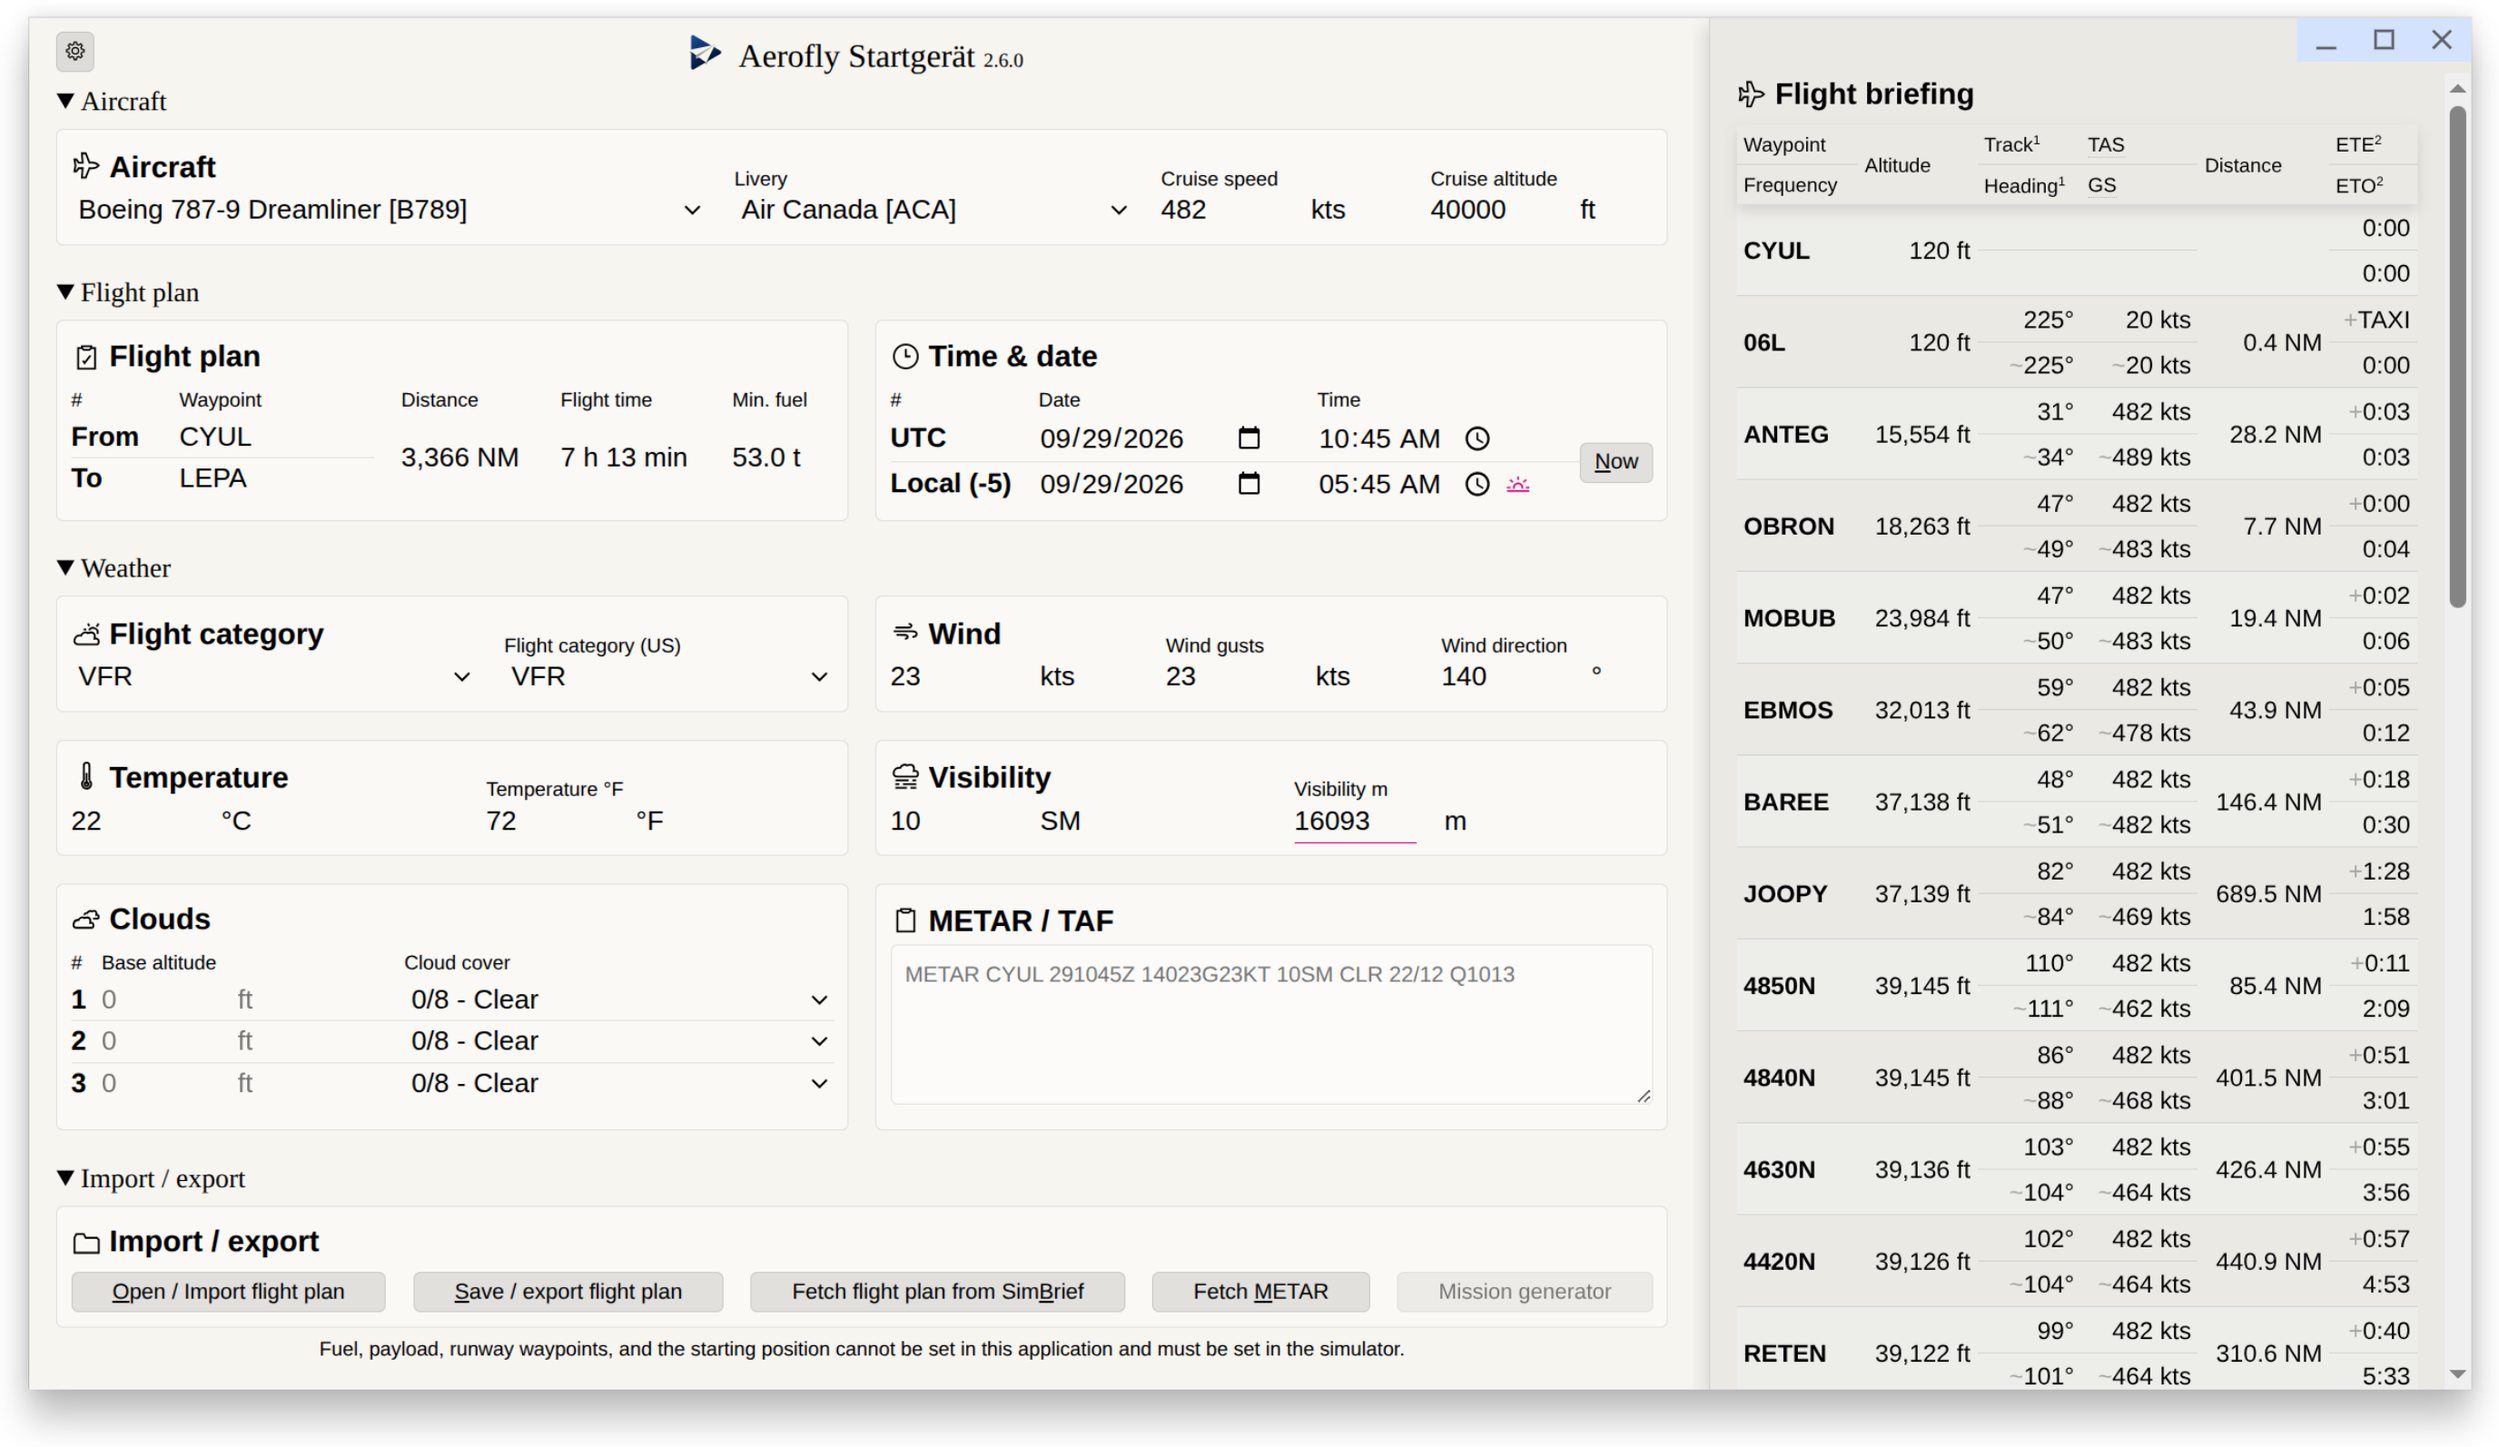
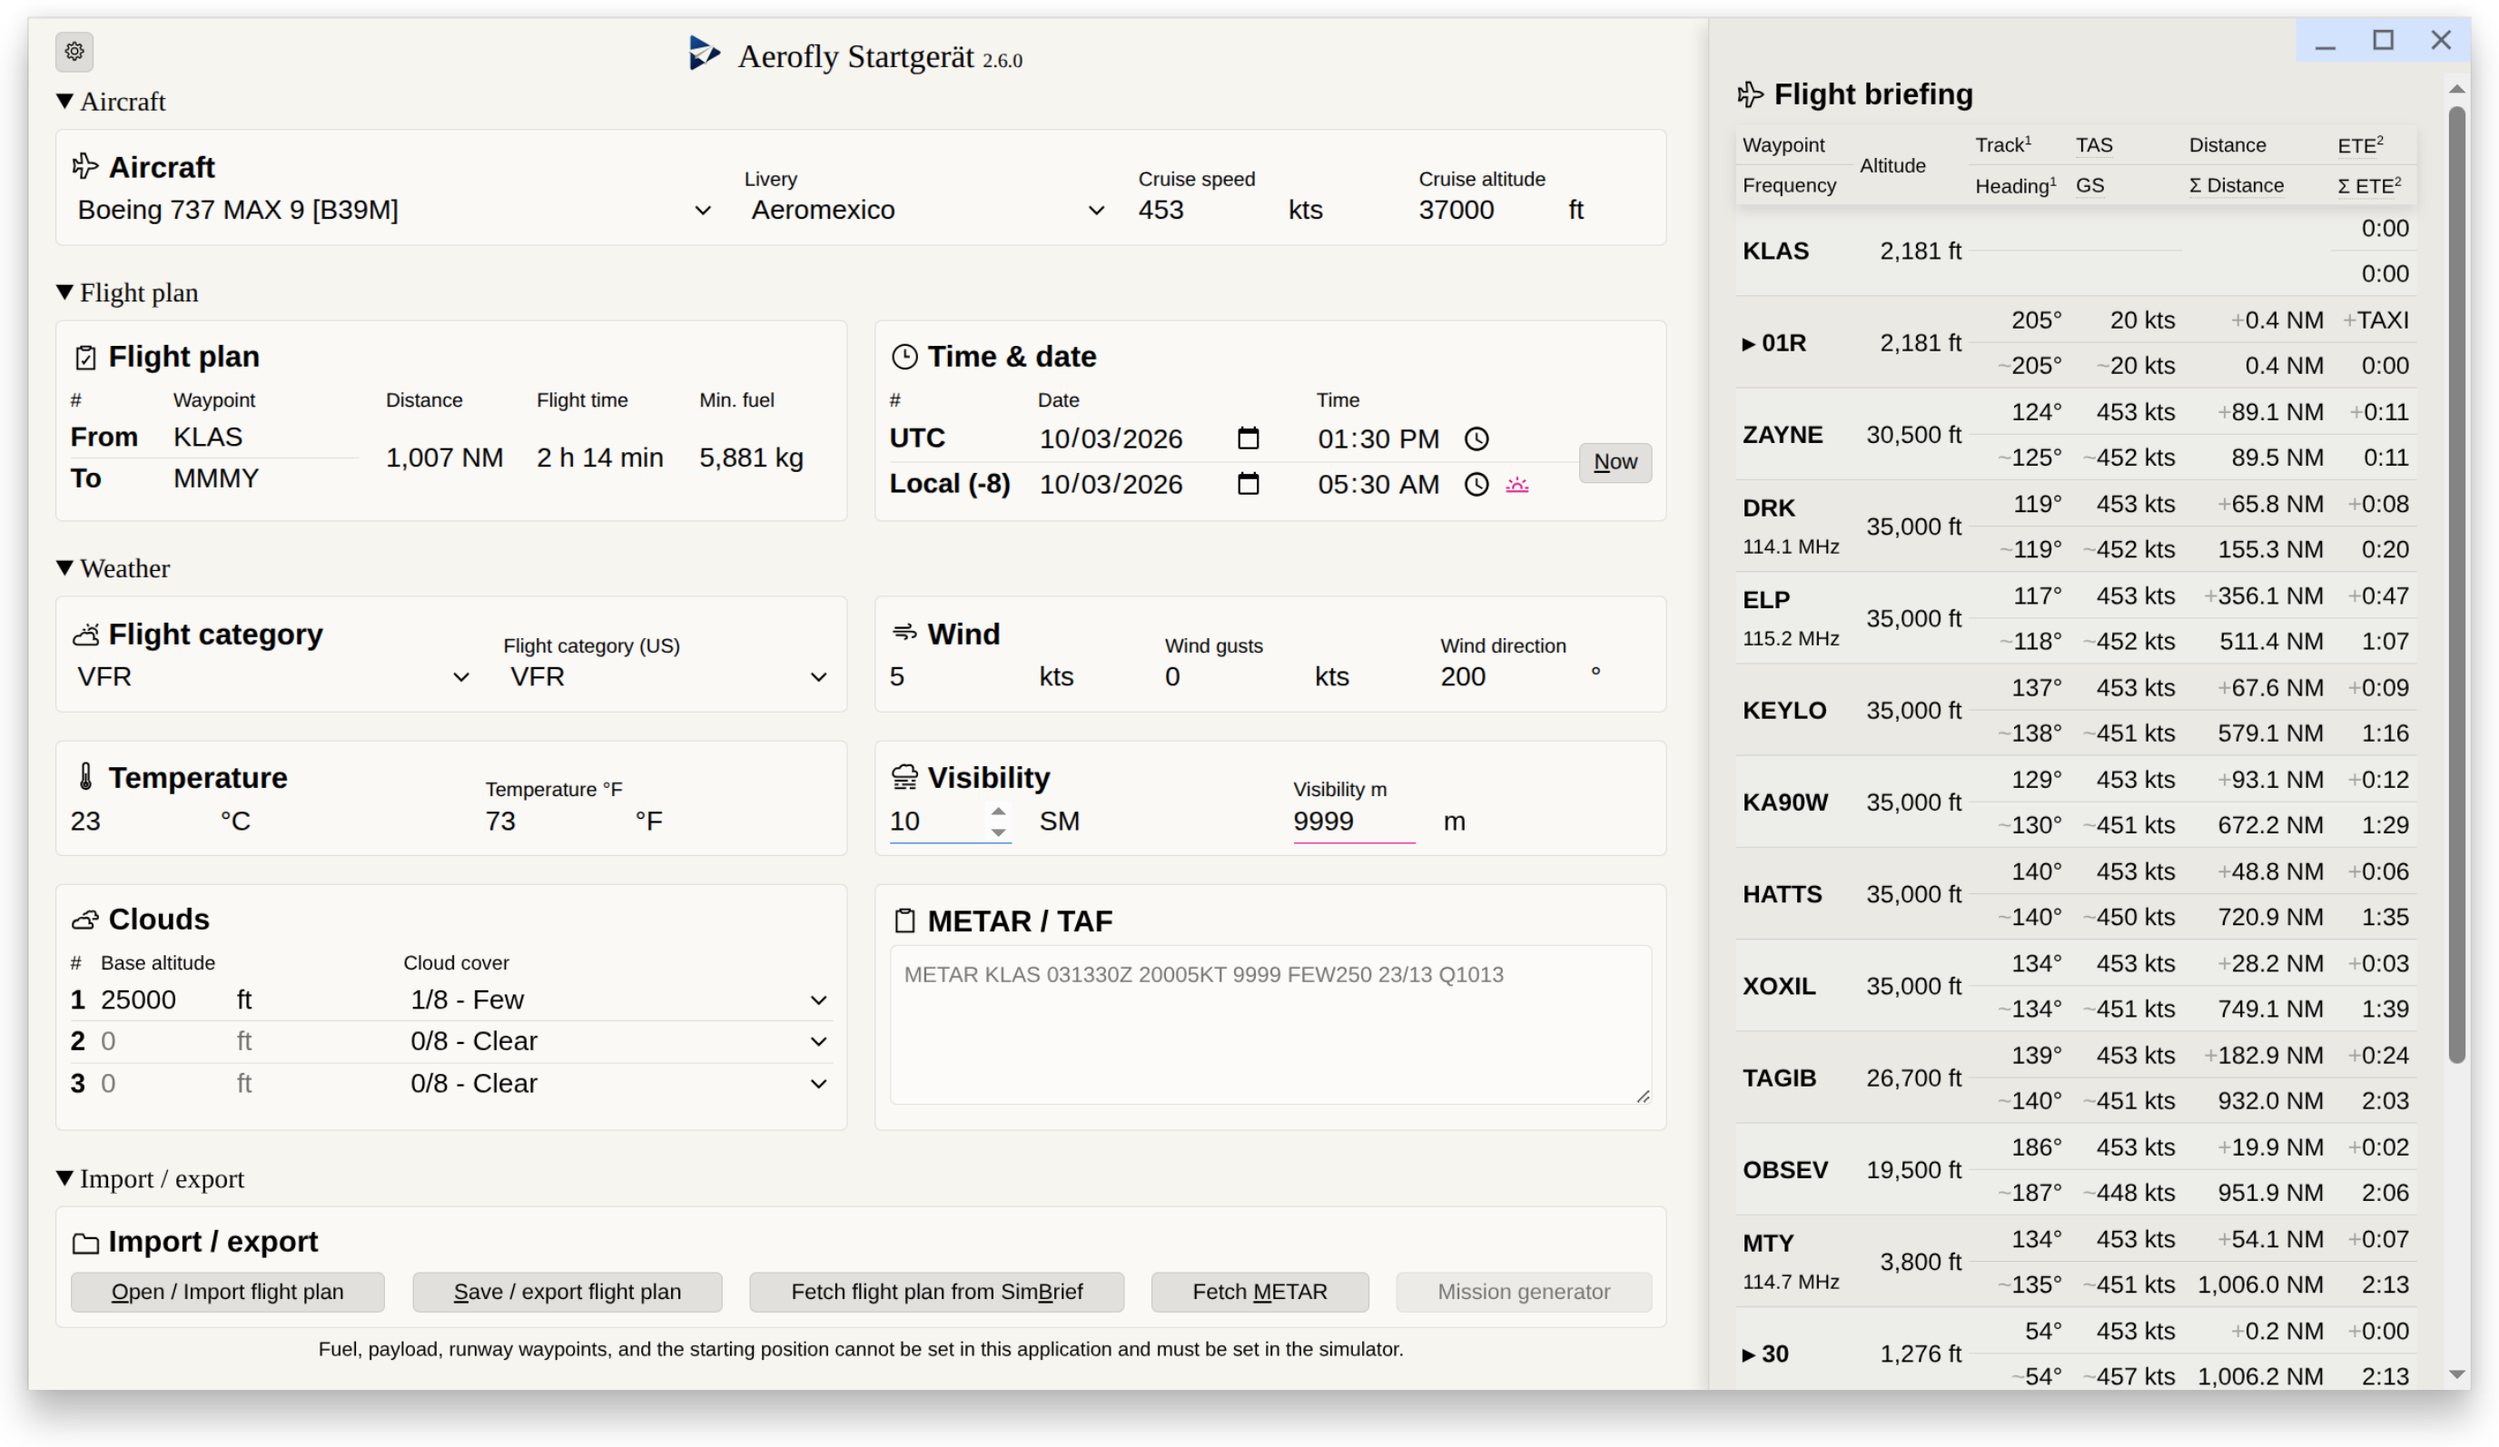
Improved flight briefing output

diff --git a/src/gui/web-components/form/FlightBriefingWebComponent.ts b/src/gui/web-components/form/FlightBriefingWebComponent.ts
@@ -29,14 +29,15 @@ export class FlightBriefingWebComponent extends BaseStateSubscriberWebComponent 
             <th rowspan="2">Altitude</th>
             <th>Track<sup>1</sup></th>
             <th><abbr title="True Airspeed">TAS</abbr></th>
-            <th rowspan="2">Distance</th>
-            <th>ETE<sup>2</sup></th>
+            <th>Distance</th>
+            <th><abbr title="Estimated Time Enroute">ETE</abbr><sup>2</sup></th>
         </tr>
         <tr>
             <th>Frequency</th>
             <th>Heading<sup>1</sup></th>
             <th><abbr title="Ground Speed">GS</abbr></th>
-            <th>ETO<sup>2</sup></th>
+            <th><abbr title="Cumulative distancce">Σ Distance</abbr></th>
+            <th><abbr title="Cumulative Estimated Time Enroute">Σ ETE</abbr><sup>2</sup></th>
         </tr>
     </thead>
     <tbody>
@@ -77,6 +78,7 @@ export class FlightBriefingWebComponent extends BaseStateSubscriberWebComponent 
                 (l) => `\
 <tr>
     <th rowspan="2">
+        ${l.type === "departure_runway" || l.type === "destination_runway" ? `<span title="Runway">▸</span>` : ""}
         ${html(l.to)}
         ${
             l.frequency_mhz
@@ -91,7 +93,7 @@ export class FlightBriefingWebComponent extends BaseStateSubscriberWebComponent 
     <td rowspan="2">${l.altitude_ft ? this.htmlNumericOutput(l.altitude_ft, " ft") : ""}</td>
     <td>${this.htmlNumericOutput(l.track_deg, "°")}</td>
     <td>${this.htmlNumericOutput(l.trueAirspeed_kts, " kts")}</td>
-    <td rowspan="2">${this.htmlNumericOutput(l.distance_nm, " NM", 1)}</td>
+    <td><span class="prefix">+</span>${this.htmlNumericOutput(l.distance_nm, " NM", 1)}</td>
     <td>
         <span class="prefix">+</span>${html(
             l.estimatedTimeEnroute_min === 0 && (l.type === "departure_runway" || l.type === "destination")
@@ -102,6 +104,7 @@ export class FlightBriefingWebComponent extends BaseStateSubscriberWebComponent 
 <tr>
     <td><span class="prefix">~</span>${this.htmlNumericOutput(l.heading_deg, "°")}</td>
     <td><span class="prefix">~</span>${this.htmlNumericOutput(l.groundSpeed_kts, " kts")}</td>
+    <td>${this.htmlNumericOutput(l.distanceTotal_nm, " NM", 1)}</td>
     <td>${html(timeFunction(l.estimatedTimeEnrouteTotal_min))}</td>
 </tr>
 `,

diff --git a/src/core/converter/aerofly-flight/AeroflyFlightToMarkdownConverter.ts b/src/core/converter/aerofly-flight/AeroflyFlightToMarkdownConverter.ts
@@ -119,7 +119,7 @@ ${markdownTable([
 ## Flight details
 
 ${markdownTable([
-    ["From", "To", "Freq²", "Altitude²", "Track", "HDG", "GS", "Dist", "ETE³", "ETO³"],
+    ["From", "To", "Freq²", "Altitude²", "Track", "HDG", "GS", "Dist", "ETE³", "ΣETE³"],
     ["---", "---", "---:", "---:", "---:", "---:", "---:", "---:", "---:", "---:"],
     ...routeLegs.map((l) => [
         l.from,
